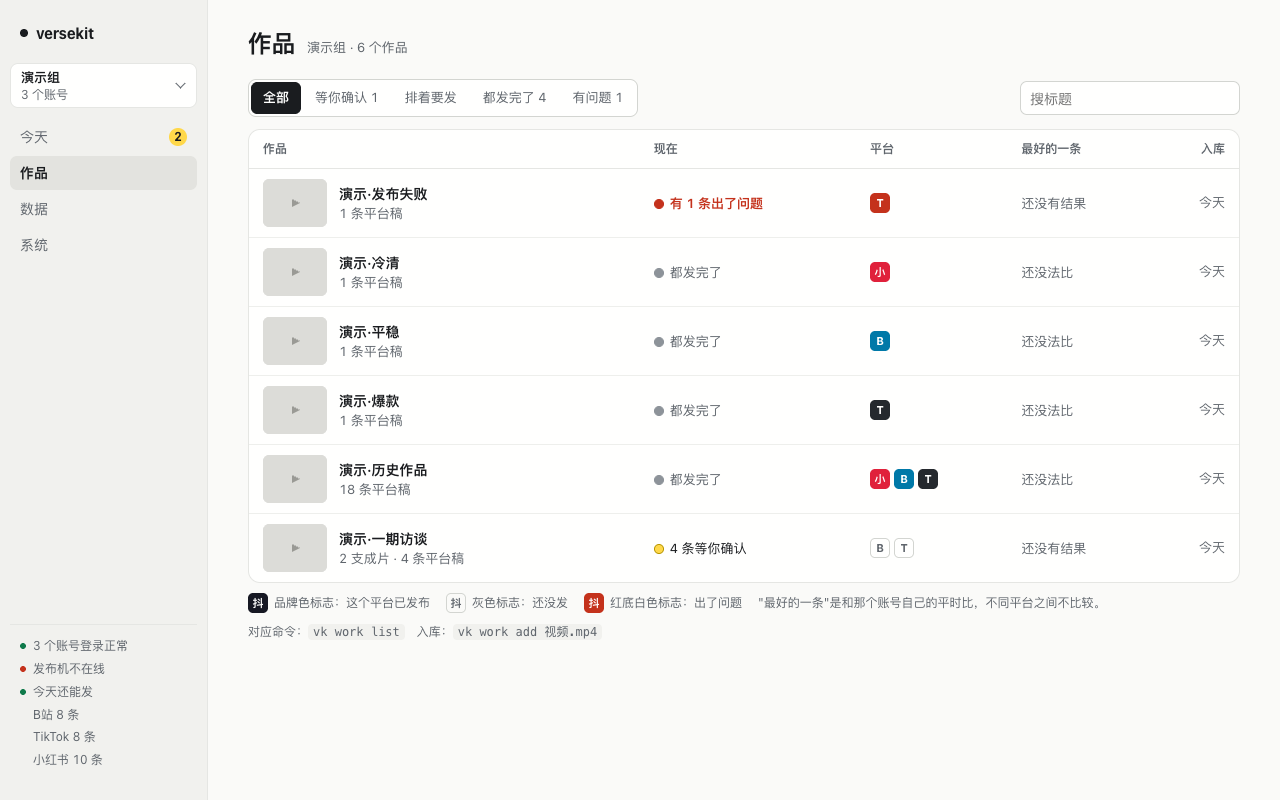
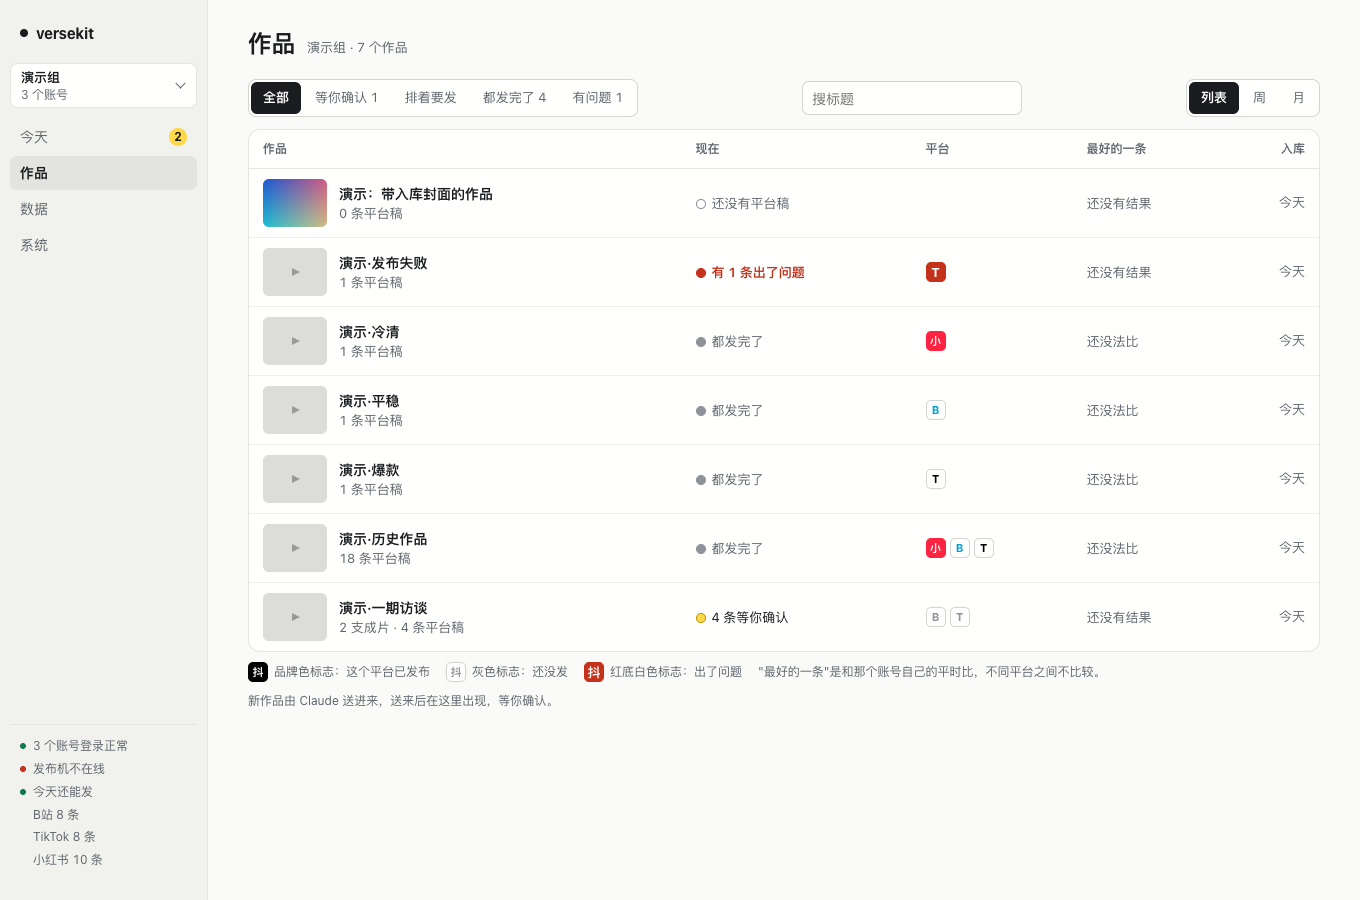
feat(core): 入库带封面，作品列表显示入库封面 (#258) (#261)
* feat(core): 入库带封面，作品列表优先显示入库封面 (#258)

清单成片/版本上可写 cover；work.add、work.push、发布机拉取都带上它，/api/works 返回封面地址；
页面有封面用封面，没有才退回首帧。trustbridge 做好的封面因此能直接显示在作品列表上。

* fix(core): 图片目录图文取第一张图，成片列表取有入库封面的语言版本 (#258)

验收 round 1：图文素材是图片目录时 /media 404、页面落占位；封面写在非首个语言版本时成片列表仍用第一个版本的首帧。

---------

diff --git a/packages/web/public/panel.js b/packages/web/public/panel.js
@@ -13,15 +13,26 @@ window.VKPanel = function createPanel(state) {
    * 封面（ACC-v3-fid-03）：用这支成片的第一个语言版本。入库不生成缩略图，所以视频直接取第一帧
    * （video + #t=0.1，只读元数据），图片素材退到 <img>，都读不到才用占位。没有版本 id 就是占位。
    */
+  // 入库封面优先（ACC-v3-fid-10）：先试 /media/<id>?cover=1；没有封面（404）再退回首帧。
   const cover = (versionId, w, h) => versionId
-    ? `<video class="cv" src="${esc(VK.media(versionId))}#t=0.1" muted playsinline preload="metadata" tabindex="-1" aria-hidden="true" width="${w}" height="${h}" data-cover="${esc(versionId)}"></video>`
+    ? `<img class="cv" src="${esc(VK.media(versionId))}?cover=1" width="${w}" height="${h}" alt="" data-cover-try="${esc(versionId)}">`
     : `<img class="cv" src="${BLANK}" width="${w}" height="${h}" alt="">`;
+  const frameCover = (versionId, w, h) => `<video class="cv" src="${esc(VK.media(versionId))}#t=0.1" muted playsinline preload="metadata" tabindex="-1" aria-hidden="true" width="${w}" height="${h}" data-cover="${esc(versionId)}"></video>`;
+  // 没有入库封面（/media?cover=1 回 404）：退回首帧。
+  const toFrame = (img) => {
+    const tpl = document.createElement("template");
+    tpl.innerHTML = frameCover(img.dataset.coverTry, img.width, img.height);
+    const v = tpl.content.firstElementChild;
+    v.className = img.className;
+    img.replaceWith(v);
+  };
   if (!window.__vkCover) {
     window.__vkCover = true;
     // error 不冒泡，用捕获：视频读不了 → 试图片 → 再不行才占位。
     document.addEventListener("error", (e) => {
       const t = e.target;
-      if (t?.matches?.("video[data-cover]")) {
+      if (t?.matches?.("img[data-cover-try]")) toFrame(t);
+      else if (t?.matches?.("video[data-cover]")) {
         const img = document.createElement("img");
         img.className = t.className; img.width = t.width; img.height = t.height; img.alt = "";
         img.dataset.coverImg = t.dataset.cover; img.src = t.currentSrc.split("#")[0] || t.src.split("#")[0];
@@ -854,7 +865,7 @@ window.VKPanel = function createPanel(state) {
       const bad = c.publishes.some((p) => ["failed", "blocked", "expired"].includes(p.state));
       const skipped = c.publishes.some((p) => p.state === "skipped") && !n;
       const [cls, txt] = bad ? ["bad", "有 1 条出了问题"] : n ? ["wait", n + " 条等你确认"] : skipped ? ["", "先不发"] : conf ? ["sched", "已确认，等时间"] : ["pub", "已发布"];
-      return `<button class="step" type="button" data-cut="${esc(c.id)}" aria-current="${c.id === curId}">${cover(c.versions?.[0]?.id, 44, 44)}<span><b>${esc(c.title)}</b><span class="st ${cls}">${txt}</span></span></button>`;
+      return `<button class="step" type="button" data-cut="${esc(c.id)}" aria-current="${c.id === curId}">${cover((c.versions?.find((v) => v.cover) ?? c.versions?.[0])?.id, 44, 44)}<span><b>${esc(c.title)}</b><span class="st ${cls}">${txt}</span></span></button>`;
     }).join("")}</div>`;
   }
 

diff --git a/.claude/skills/versekit-ingest/SKILL.md b/.claude/skills/versekit-ingest/SKILL.md
@@ -35,6 +35,7 @@ vk publish approve --cut <cutId>   # 人确认后才发
   "cuts": [
     {
       "title": "长片",
+      "cover": "long-cover.jpg",
       "copy": {
         "bilibili":    { "title": "……", "body": "……", "tags": ["话题1", "话题2"] },
         "xiaohongshu": { "title": "……", "body": "……", "tags": ["话题1"] },
@@ -56,6 +57,7 @@ vk publish approve --cut <cutId>   # 人确认后才发
 ```
 
 - `asset` 相对清单所在目录；可以是视频文件，或图片目录（图文）。
+- `cover`（可选）：封面图片路径，相对清单所在目录，jpg / png / webp / gif。写在成片上，所有语言版本共用；某个语言版本要自己的封面就写在那个版本上。作品列表、今天页等处有封面就显示它，没写才退回成片视频的首帧。`vk work add` 和 `vk work push` 都会带上它（push 时封面和成片一起传到中转，发布机拉取后还在）。路径不是图片或文件不存在会被拒绝。trustbridge 做好的封面直接写这里。
 - `copy` 可以写在成片上（所有语言版本共用），也可以写在语言版本上（按平台覆盖成片级的）。
 - `copy` 里 `title` / `body` / `tags` 三个键直接写 = **默认文案**；以平台名为键 = 该平台文案；两种可以并用，平台文案按字段盖住默认文案。
 - `tags` 是字符串数组，**不带 `#`**（写了也会去掉）。
